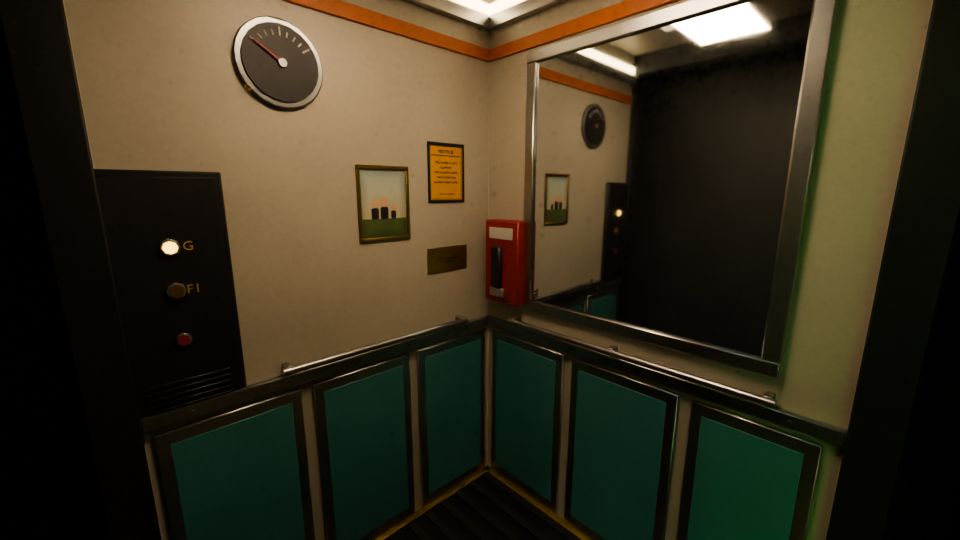
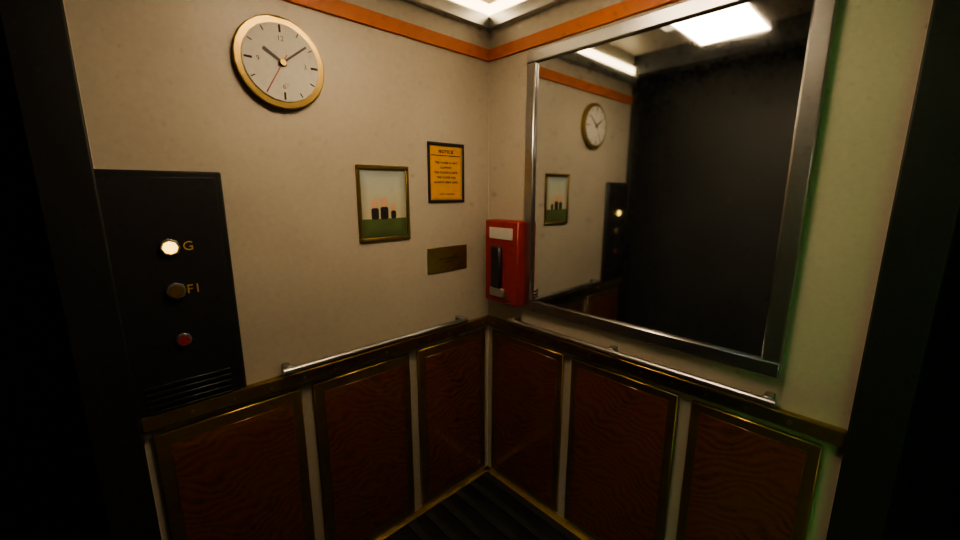
Lift car: burl-wood dado in brass frames, wall clock replaces the floor dial
- teal dado replaced by polished 1980s-style burl walnut (clear coat) with brass frames and rail
- analogue floor dial and needle removed; brass wall clock with hands driven by scene seconds
- views p8 (clock), p15, p17 refreshed; reports and shipped blend refreshed

Claude-Session: https://claude.ai/code/session_01MZn6W3mktoSNAd4EhQyGwJ

Changed region(s): [[0.1562, 0.6222, 0.875, 1.0], [0.2188, 0.0296, 0.3438, 0.237], [0.5938, 0.1778, 0.6562, 0.2667]]

diff --git a/sections/reactor-room/production/overhaul-R1/scripts/cr_ante.py b/sections/reactor-room/production/overhaul-R1/scripts/cr_ante.py
@@ -1,7 +1,7 @@
 """Anteroom dressing and lift interior (owner brief 2026-10-01, second pass).  Called from cr_lift.build.
 Anteroom (interior x -6.83..-4.83, y -7.70..-5.70, floor z 5.4): water cooler with a labelled 19 l jug and cups, loveseat with throw cushion and folded blanket,
 small coffee table (magazine, remote, bowl of sweets, coffee on a coaster), a wall-mounted TV on the control room wall, a slim floor lamp, small potted plant, dark red worn Persian rug.  Lift: G / F1 button lamps and floor-indicator lamps that light for the ACTIVE floor, a flickering cabin
-light and car lamp, a dome security camera with a blinking red LED, an expired inspection certificate, a capacity plate, and an analogue floor-position dial whose needle
+light and car lamp, a dome security camera with a blinking red LED, an expired inspection certificate, a capacity plate, and a wall clock (hands driven by scene time in seconds), formerly an analogue floor dial whose needle
 swings with the car.  Everything that moves or lights up is driven by the CR_LIFT car height (seconds-based schedule), never by frames."""
 import bpy,math
 import numpy as np
@@ -53,6 +53,20 @@ def wood_tex(W=512,seed=5):
     pores/=9; streak=np.clip(0.5+0.5*np.sin(2*np.pi*(31*y+3*w)),0,1)**6
     t=np.clip(0.55*ring+0.35*pores+0.1,0,1); lo=np.array((0.20,0.115,0.065),np.float32); hi=np.array((0.46,0.29,0.17),np.float32)
     a=lo+(hi-lo)*t[...,None]; a*=(1-0.30*streak[...,None]); return np.clip(a,0,1).astype(np.float32)
+def burl_tex(W=512,seed=9):
+    """tileable polished burl walnut for the lift panelling: swirling figured grain with dark 'eyes' and a warm red-brown ground (1980s luxury car trim)"""
+    rng=np.random.default_rng(seed); y,x=np.mgrid[0:W,0:W].astype(np.float32)/W
+    w=0.035*np.sin(2*np.pi*(2*x+1*y))+0.02*np.sin(2*np.pi*(3*y-2*x+0.3))+0.012*np.sin(2*np.pi*(6*x+5*y+0.7))
+    ring=0.5+0.5*np.sin(2*np.pi*(22*(y+w)+1.2*np.sin(2*np.pi*x)))
+    eyes=np.zeros((W,W),np.float32)
+    for _ in range(22):
+        cx,cy=rng.random(2); r=0.008+0.012*rng.random(); dx=np.abs(x-cx); dx=np.minimum(dx,1-dx); dy=np.abs(y-cy); dy=np.minimum(dy,1-dy)
+        d=np.hypot(dx,dy)/r; eyes=np.maximum(eyes,np.clip(1-d,0,1)*(0.5+0.5*np.cos(d*9)))
+    fine=rng.random((W,W)).astype(np.float32)
+    for k in range(1,5): fine+=np.roll(fine,k,axis=1)
+    fine/=5; t=np.clip(0.38*ring+0.40*fine+0.2*w*8+0.12,0,1)
+    lo=np.array((0.20,0.10,0.05),np.float32); hi=np.array((0.46,0.26,0.12),np.float32)
+    a=lo+(hi-lo)*t[...,None]; a=a*(1-0.28*eyes[...,None]); return np.clip(a,0,1).astype(np.float32)
 def weave_tex(base,W=128,n=10,seed=7,var=0.10):
     """tileable plain-weave cloth: alternating over/under threads, per-thread tint, soft thread profile"""
     rng=np.random.default_rng(seed); y,x=np.mgrid[0:W,0:W].astype(np.float32); u=x/W*n; v=y/W*n; iu=np.floor(u).astype(int)%n; iv=np.floor(v).astype(int)%n
@@ -67,7 +81,7 @@ def lamp_mats(c,ctl):
     M["LAMP_F1"]=emit_mat("CR lift lamp F1",(1.0,0.62,0.12),4.0); _drive(M["LAMP_F1"],"4.0*min(1,max(0,(z-4.8)/0.6))",zv)
     M["LAMP_MOVE"]=emit_mat("CR lift lamp moving",(1.0,0.30,0.05),3.0); _drive(M["LAMP_MOVE"],"3.0*(1 if z>0.15 and z<5.25 else 0)",zv)
     M["CAB_LIGHT"]=emit_mat("CR lift cabin light",(1.0,0.74,0.46),16.0); _drive(M["CAB_LIGHT"],"16.0*(1-0.85*max(0,sin(T*47)*sin(T*11.3+1)-0.30)*1.6)*(1-0.7*bw)",[])
-    M["DADO"]=pm("CR lift dado teal",(0.06,0.25,0.24),0.30,edge=(0.30,0.55,0.50),scale=2.0,bump=0.0,coat=0.4,var=(0.92,1.04))
+    M["DADO"]=tex_mat("CR lift burl wood",new_image("CR lift burl tex",burl_tex()),rough=0.08,bump=0.05,scale=(1.5,1.5),clamp=False,coat=1.0)
     M["LPHOTO"]=tex_mat("CR family photo lift",new_image("CR lift photo tex",crt.photo()),rough=0.45)
     M["COVE"]=emit_mat("CR lift cove",(1.0,0.74,0.42),7.0,expr="7.0*(1-0.35*min(1,fk))*(1-0.5*bw)")
     M["CAM_LED"]=emit_mat("CR lift camera led",(1.0,0.05,0.03),4.0); _drive(M["CAM_LED"],"4.0*(1 if fmod(T,2.4)<0.18 else 0)",[])
@@ -214,10 +228,10 @@ def car_dressing(K,x0,x1,y0,y1):
     g="lift_car"; xw=x0+0.07; ys=y0+0.07; yn=y1-0.10; xe=x1-0.10
     # olive dado: raised panels with a graphite field, on both wall sides
     for (ya,yb) in ((-7.04,-6.62),(-6.58,-6.16),(-6.12,-5.79)):
-        K.fb((g,"BRUSH"),'+x',xw,ya,yb,0.12,0.88,0.014,0.004); K.fb((g,"DADO"),'+x',xw+0.014,ya+0.035,yb-0.035,0.16,0.84,0.003,0.002)
+        K.fb((g,"BRASS"),'+x',xw,ya,yb,0.12,0.88,0.014,0.004); K.fb((g,"DADO"),'+x',xw+0.014,ya+0.03,yb-0.03,0.15,0.85,0.003,0.002)
     for (xa,xb) in ((-8.60,-8.20),(-8.16,-7.76),(-7.72,-7.32)):
-        K.fb((g,"BRUSH"),'+y',ys,xa,xb,0.12,0.88,0.014,0.004); K.fb((g,"DADO"),'+y',ys+0.014,xa+0.035,xb-0.035,0.16,0.84,0.003,0.002)
-    K.fb((g,"BRUSH"),'+x',xw,ys,yn,0.90,0.945,0.024,0.004); K.fb((g,"BRUSH"),'+y',ys,xw,xe,0.90,0.945,0.024,0.004)                                  # chair rail
+        K.fb((g,"BRASS"),'+y',ys,xa,xb,0.12,0.88,0.014,0.004); K.fb((g,"DADO"),'+y',ys+0.014,xa+0.035,xb-0.035,0.16,0.84,0.003,0.002)
+    K.fb((g,"BRASS"),'+x',xw,ys,yn,0.90,0.945,0.024,0.004); K.fb((g,"BRASS"),'+y',ys,xw,xe,0.90,0.945,0.024,0.004)                                  # chair rail
     K.fb((g,"ORANGE"),'+x',xw,ys,yn,2.10,2.15,0.010,0.003); K.fb((g,"ORANGE"),'+y',ys,xw,xe,2.10,2.15,0.010,0.003)                                 # amber stripe
     K.fb((g,"BRUSH"),'+x',xw,ys,yn,2.22,2.27,0.028,0.004); K.fb((g,"BRUSH"),'+y',ys,xw,xe,2.22,2.27,0.028,0.004)                                  # crown rail
     K.fb((g,"COVE"),'+x',xw,ys,yn,2.285,2.325,0.012,0.002); K.fb((g,"COVE"),'+y',ys,xw,xe,2.285,2.325,0.012,0.002)                                 # LED coves
@@ -254,12 +268,12 @@ def car_interior(c,ctl,car,zv,_mover):
             K.cyly((g,"STEEL_L"),-7.42,-7.062,-7.052,z,0.024,18,0.002); K.cyly((g,key),-7.42,-7.052,-7.047,z,0.017,18)
         K.cyly((g,"STEEL_L"),-7.42,-7.062,-7.054,1.14,0.020,16,0.002); K.cyly((g,"RED"),-7.42,-7.054,-7.049,1.14,0.014,14)                                       # alarm
         for k in range(5): K.bx((g,"STEEL"),-7.52,-7.32,-7.062,-7.056,0.945+k*0.018,0.953+k*0.018,0.001)                                                         # intercom grille
-        cx,cz=-7.75,1.92                                                                                                                                            # analogue floor dial
-        K.cyly((g,"STEEL_L"),cx,-7.08,-7.064,cz,0.125,30,0.003); K.cyly((g,"BLACK"),cx,-7.064,-7.058,cz,0.108,30)
-        for k in range(9):
-            th=math.radians(-57+k*14.25); r0,r1=0.074,0.098 if k in (0,4,8) else 0.090
-            K.tube((g,"PAPER"),[(cx+math.sin(th)*r0,-7.0585,cz+math.cos(th)*r0),(cx+math.sin(th)*r1,-7.0585,cz+math.cos(th)*r1)],0.0028,4)
-        K.cyly((g,"STEEL_L"),cx,-7.058,-7.050,cz,0.012,10)
+        cx,cz=-7.75,1.92                                                                                                                                            # wall clock (replaces the analogue floor dial: the display over the door shows the floor)
+        K.cyly((g,"BRASS"),cx,-7.08,-7.060,cz,0.128,40,0.003); K.cyly((g,"PAPER"),cx,-7.060,-7.056,cz,0.108,40)
+        for k in range(12):
+            th=math.radians(k*30); big=(k%3==0); r0=0.082 if big else 0.090; r1=0.103
+            K.tube((g,"BLACK"),[(cx-math.sin(th)*r0,-7.0555,cz+math.cos(th)*r0),(cx-math.sin(th)*r1,-7.0555,cz+math.cos(th)*r1)],0.0030 if big else 0.0016,4)
+        K.cyly((g,"BRASS"),cx,-7.056,-7.046,cz,0.009,12)
         # security dome camera in the south-west ceiling corner, red LED beside it
         dx,dy=-8.50,-6.95
         K.cyl((g,"STEEL_L"),dx,dy,2.378,2.40,0.070,22,0.003); K.cyl((g,"BLACK"),dx,dy,2.350,2.378,0.058,22,0.003); K.cyl((g,"BLACK"),dx,dy,2.322,2.350,0.045,20,0.003); K.cyl((g,"BLACK"),dx,dy,2.302,2.322,0.028,16,0.002)
@@ -269,13 +283,16 @@ def car_interior(c,ctl,car,zv,_mover):
     for o in objs: o.parent=car
     for body,x,y,z,size,face,key in (("G",-7.46,-7.0575,1.40,0.036,'+y',"YELLOW"),("F1",-7.46,-7.0575,1.28,0.036,'+y',"YELLOW"),("MAX 8 PERSONS\n600 KG",-8.38,-7.0745,1.25,0.0145,'+y',"BLACK"),("G",-8.12,-5.7765,2.155,0.085,'-y',"LAMP_G"),("1",-7.80,-5.7765,2.155,0.085,'-y',"LAMP_F1")):
         t=crk.text(coll,body,x,y,z,face,size,M[key],'CENTER',"CR lift label"); t.parent=car
-    for body,x,z in (("G",-7.65,1.835),("1",-7.855,1.835)):
-        t=crk.text(coll,body,x,-7.0575,z,'+y',0.026,M["YELLOW"],'CENTER',"CR lift dial label"); t.parent=car
-    # dial needle: pivot at the dial centre, driven by the car height (G on the east side, F1 on the west side as seen from the doors)
-    def needle(K):
-        g="lift_needle"; K.bx((g,"RED"),-0.0025,0.0025,-0.0015,0.0015,-0.012,0.088,0.0005); K.cyl((g,"RED"),0,0,-0.0015,0.0015,0.0,6) if False else None
-    ob=_mover(c,"lift_needle",needle)
-    for o in ob:
-        o.parent=car; o.location=(-7.75,-7.052,1.92); drv(o,'rotation_euler',1,"1.0*(1-2*z/5.4)",var_s=False,extra=zv)
+    for body,dx,dz in (("12",0.0,0.066),("3",-0.066,0.0),("6",0.0,-0.066),("9",0.066,0.0)):
+        t=crk.text(coll,body,-7.75+dx,-7.0558,1.92+dz,'+y',0.020,M["BLACK"],'CENTER',"CR lift clock numeral"); t.parent=car
+    # clock hands: pivots at the clock centre, driven by scene time in seconds (second hand 60 s per turn, minute hand 1 h, hour hand 12 h); the clock reads 10:08:35 at t = 0
+    def hand(name,ln,w,tail,key,yoff,expr):
+        def fn2(K):
+            g="lift_hand"; K.bx((g,key),-w,w,-0.0006,0.0006,-tail,ln,0.0003)
+        for o in _mover(c,name,fn2):
+            o.parent=car; o.location=(-7.75,-7.0545+yoff,1.92); drv(o,'rotation_euler',1,expr,var_s=False,extra=[])
+    hand("lift_clock_hour",0.060,0.0045,0.012,"BLACK",0.0,"-6.28319*(0.84167+T/43200)")
+    hand("lift_clock_min",0.092,0.0030,0.016,"BLACK",0.0007,"-6.28319*(0.14333+T/3600)")
+    hand("lift_clock_sec",0.100,0.0012,0.028,"RED",0.0014,"-6.28319*(0.58333+T/60)")
     lo=crk.light(coll,"CR lift car lamp",(-7.95,-6.40,2.25),(1.0,0.72,0.45),150,'AREA',(0,0,0),size=(0.55,0.28),expr="150*(1-0.85*max(0,sin(T*47)*sin(T*11.3+1)-0.30)*1.6)*(1-0.7*bw)",var_s=False)
     lo.parent=car

diff --git a/sections/reactor-room/production/overhaul-R1/scripts/crk.py b/sections/reactor-room/production/overhaul-R1/scripts/crk.py
@@ -249,10 +249,11 @@ def pm(name,base,rough=0.5,metal=0.0,var=(0.87,1.05),scale=2.5,bump=0.06,edge=No
         bp=_n(nt,"ShaderNodeBump",1300,-750); bp.inputs['Strength'].default_value=bump; bp.inputs['Distance'].default_value=0.02
         nt.links.new(bz.outputs['Fac'],bp.inputs['Height']); nt.links.new(bp.outputs['Normal'],b.inputs['Normal'])
     return m
-def tex_mat(name,img,rough=0.7,metal=0.0,emit=0.0,scale=(1,1),bump=0.0,clamp=True):
+def tex_mat(name,img,rough=0.7,metal=0.0,emit=0.0,scale=(1,1),bump=0.0,clamp=True,coat=0.0):
     m=_new(name); nt=m.node_tree
     out=_n(nt,"ShaderNodeOutputMaterial",900,0); b=_n(nt,"ShaderNodeBsdfPrincipled",600,0); nt.links.new(b.outputs['BSDF'],out.inputs['Surface'])
     b.inputs['Roughness'].default_value=rough; b.inputs['Metallic'].default_value=metal
+    if coat>0: b.inputs['Coat Weight'].default_value=coat; b.inputs['Coat Roughness'].default_value=0.03
     uv=_n(nt,"ShaderNodeTexCoord",-700,0); vec=uv.outputs['UV']
     if tuple(scale)!=(1,1):
         mp=_n(nt,"ShaderNodeMapping",-500,0); mp.inputs['Scale'].default_value=(scale[0],scale[1],1.0); nt.links.new(vec,mp.inputs['Vector']); vec=mp.outputs['Vector']

diff --git a/sections/reactor-room/production/overhaul-R1/scripts/cr_lift_views.py b/sections/reactor-room/production/overhaul-R1/scripts/cr_lift_views.py
@@ -15,7 +15,7 @@ V={"p1_anteroom_from_lift_door":((-6.72,-6.40,6.95),(-5.6,-8.2,6.1),15,400),
    "p5_tv_wall":((-6.55,-6.95,6.75),(-4.83,-8.15,6.75),30,400),
    "p6_water_cooler_closeup":((-6.3,-7.2,6.8),(-5.45,-5.9,6.25),30,400),
    "p7_plant_and_lamp_corner":((-6.0,-7.6,6.7),(-5.3,-8.75,6.3),26,400),
-   "p8_car_panel_and_dial_ground":((-8.25,-6.0,1.55),(-7.6,-7.08,1.35),24,1),
+   "p8_car_panel_and_clock":((-8.2,-6.1,1.6),(-7.65,-7.08,1.62),22,1),
    "p9_car_camera_and_certificate":((-7.5,-5.95,1.6),(-8.38,-7.08,1.55),24,1),
    "p10_car_mid_ride_dial_needle":((-8.25,-6.0,4.25),(-7.6,-7.08,4.05),24,241),
    "p11_anteroom_floor_indicator":((-5.15,-6.4,7.0),(-6.83,-6.4,7.9),30,400),

diff --git a/sections/reactor-room/production/overhaul-R1/README.md b/sections/reactor-room/production/overhaul-R1/README.md
@@ -241,7 +241,7 @@ The hall-side window glass is now fully clear (`CR window glass clear`: alpha 0.
 - **Lift:** solid enclosed shaft, no glass onto the reactor hall. Car doors: **north** at ground (the only opening onto the hall), **east** at the control-room level (+5.4 m). 24 s loop in scene seconds (ground 0-5 s, up 5-11 s, upper 11-17 s, down 17-23 s); car, counterweight, four ropes and four landing leaves are driven from `CR_LIFT`, frame-rate independent (`fps_independence_check.py` Passed).
 - **Anteroom:** 2.0 m wide x 3.25 m deep (interior x -6.83..-4.83, y -8.95..-5.70) plus a **south-west alcove** (x -7.70..-6.83, y -8.95..-7.52, tucked south of the shaft) that adds 0.87 m of width at the couch wall; floor +5.4 m, ceiling 8.5 m, on a steel frame with solid skirt panels. Its far door is the control room's west door. Skirting, coving, a framed print (poster atlas) and a lane of 2 m between the lift door and the control door stay clear.
 - **Anteroom dressing (AAA pass, stylised clean):** teal woven-fabric couch in the alcove, back to the west wall, facing a slim **wall-mounted TV on the control room's west wall** (broadcast image, flickers with the shared tube signal, cool glow light); walnut coffee table (generated grain texture) with magazine, remote, coffee on a coaster and a bowl of sweets; slim brass floor lamp; potted plant with 12 curved leaves; water cooler with a rounded body, tap bay, drip grille, cup dispenser and a ribbed 19 l jug ("FAMILY CO. SPRING WATER"); dark red worn Persian rug between couch and TV. The bedside table was removed (no space in the alcove). Furniture uses lathe-revolved profiles, soft bevelled cushions and tapered legs instead of stacked cylinders and boxes (`Kit.lathe`, `Kit.pillow`, `Kit.leaf` in `crk.py`).
-- **In the lift:** G and F1 buttons whose lamps light for the **active floor**, the same lamps (G | moving | F1) as floor indicators over the lift door in the anteroom and beside the ground door in the hall, a cabin light and car lamp that **flicker** (seconds-based, with the shared brownout), a dome **security camera** with a blinking red LED, an expired inspection certificate and a capacity plate, and an **analogue floor-position dial** whose needle swings with the car (G on the east side, F1 on the west side). **Car redesign (second AAA pass):** cream painted walls with an olive/teal raised-panel dado, brushed chair rail with rivets, amber stripe, crown rail and glowing LED coves, a big framed mirror on the west wall, red emergency phone with handset and coiled cord, certificate, brass capacity plate and a framed staff photo on the south wall, a G | arrow | 1 floor display over the north door that follows the car height, ribbed rubber floor with yellow edge strips, satin car walls, round handrails; car lamp 150 W and brighter cabin light.
+- **In the lift:** G and F1 buttons whose lamps light for the **active floor**, the same lamps (G | moving | F1) as floor indicators over the lift door in the anteroom and beside the ground door in the hall, a cabin light and car lamp that **flicker** (seconds-based, with the shared brownout), a dome **security camera** with a blinking red LED, an expired inspection certificate and a capacity plate, and a **wall clock** (brass bezel, cream face, hour, minute and red second hands driven by scene time in seconds) replacing the old analogue floor dial; the floor is shown by the G | arrow | 1 display over the door. **Car redesign (second AAA pass):** cream painted walls with a polished burl-wood raised-panel dado in brass frames (1980s luxury-car trim, high-gloss clear coat), brass chair rail with rivets, amber stripe, crown rail and glowing LED coves, a big framed mirror on the west wall, red emergency phone with handset and coiled cord, certificate, brass capacity plate and a framed staff photo on the south wall, a G | arrow | 1 floor display over the north door that follows the car height, ribbed rubber floor with yellow edge strips, satin car walls, round handrails; car lamp 150 W and brighter cabin light.
 - **Numbers (after the car redesign):** control-room triangles about 97.5k, 225 objects, glTF round trip 97,547 triangles, 200 objects, 45 materials (cap 16 already exceeded); lift + anteroom about 23k triangles of the ~35k budget. `cr_verify.py` (incl. purple audit), `verify_piping.py`, `clearance.py` and `fps_independence_check.py` Passed. Not engine-measured. The control room's west cladding slab (x -5.0..-4.8) is the anteroom's real east wall, so the room is effectively 1.83 m wide there; the east dressing and TV are mounted on it.
 - **Lights:** the lift car lamp is the 7th dynamic light (no shadow); the anteroom ceiling lamp (34 W), floor lamp and TV glow are baked/static (15 baked in total).
 - **Fixed on the way:** the decal-atlas join had adopted the lift car as parent (a car-mounted certificate was the first decal object), which would have dragged every poster with the car; `cr_atlas_decals.py` now only joins unparented decals.

diff --git a/sections/reactor-room/production/overhaul-R1/control_room_runtime_behaviour.md b/sections/reactor-room/production/overhaul-R1/control_room_runtime_behaviour.md
@@ -16,6 +16,9 @@ Generated by `cr_runtime_spec.py` from the authoring blend. Spec only: not an en
 | CR lift rope car -8.05 | `scale[2]` | `7.12-z` |
 | CR lift rope cw -7.85 | `scale[2]` | `0.6+z` |
 | CR lift rope cw -8.05 | `scale[2]` | `0.6+z` |
+| CR lift_clock_hour | `rotation_euler[1]` | `-6.28319*(0.84167+T/43200)` |
+| CR lift_clock_min | `rotation_euler[1]` | `-6.28319*(0.14333+T/3600)` |
+| CR lift_clock_sec | `rotation_euler[1]` | `-6.28319*(0.58333+T/60)` |
 | CR lift_dgL BLACK | `location[0]` | `-0.50*d` |
 | CR lift_dgL STEEL | `location[0]` | `-0.50*d` |
 | CR lift_dgL STEEL_L | `location[0]` | `-0.50*d` |
@@ -32,7 +35,6 @@ Generated by `cr_runtime_spec.py` from the authoring blend. Spec only: not an en
 | CR lift_duR STEEL | `location[1]` | `+0.50*d` |
 | CR lift_duR STEEL_L | `location[1]` | `+0.50*d` |
 | CR lift_duR YELLOW | `location[1]` | `+0.50*d` |
-| CR lift_needle | `rotation_euler[1]` | `1.0*(1-2*z/5.4)` |
 | CR troffer -0.6 | `energy[0]` | `32*(0.5+0.3*s)*max(0.04,1-0.9*max(0.4,1-s)*fk)*(1-0.7*bw)` |
 | CR troffer -3.0 | `energy[0]` | `32*(0.5+0.3*s)*max(0.04,1-0.9*max(0.4,1-s)*fk)*(1-0.7*bw)` |
 | CR troffer 1.2 | `energy[0]` | `32*(0.5+0.3*s)*max(0.03,1-(0.85+0.15*(1-s))*fk)*(1-0.7*bw)` |
